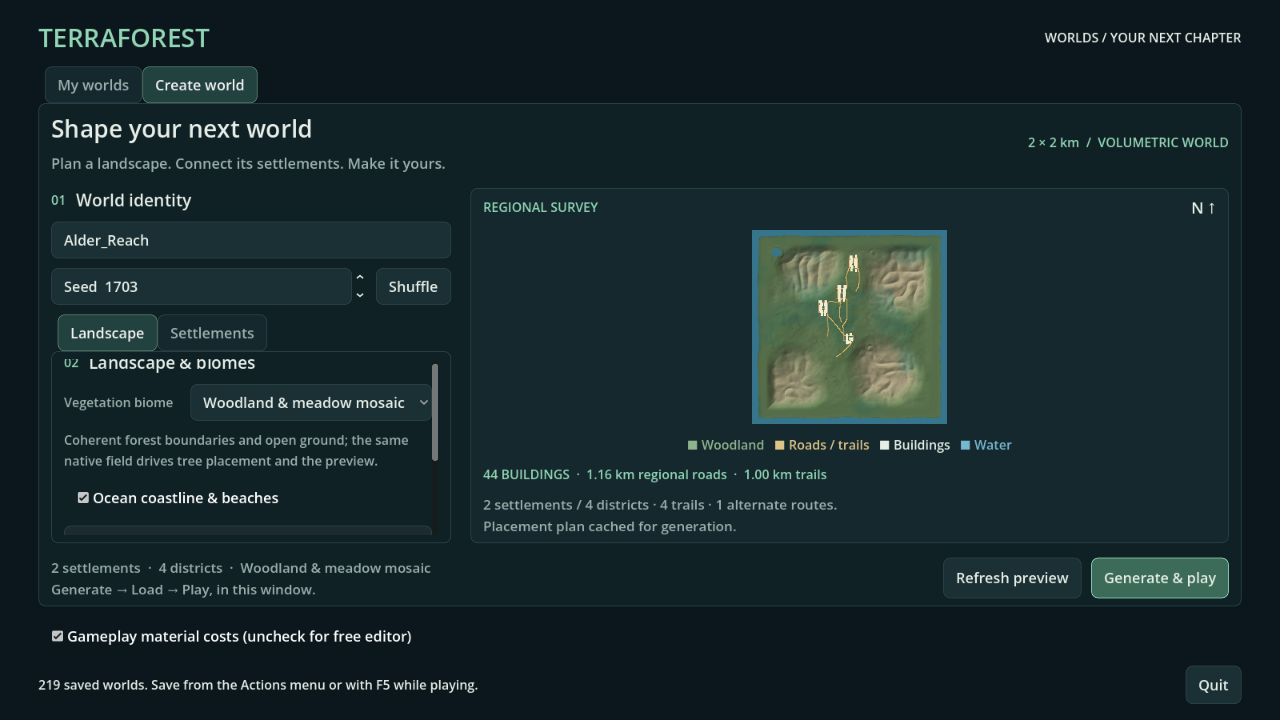
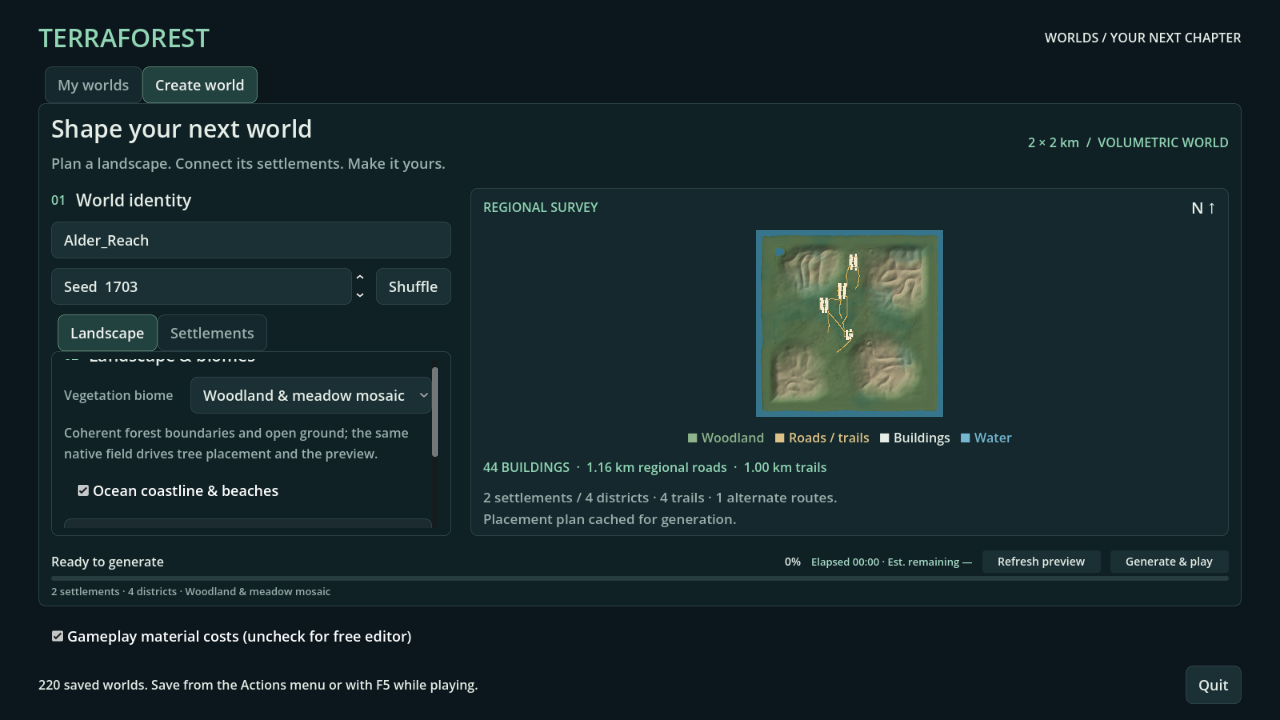
Keep Create world progress visible with stable ready and active layouts

diff --git a/TerraForest/docs/evidence/create_world_tab/README.md b/TerraForest/docs/evidence/create_world_tab/README.md
@@ -29,14 +29,30 @@ Run using `python tools/run_godot_check.py <test> --godot <engine> --timeout <se
 The initial tall card was rejected for wasted vertical space. The compact
 revision replaces the entire card with a transparent footer strip: stage,
 percentage, timing and Cancel share one row above the bar. Work details use one
-optional clipped line with the full text in its tooltip. The repeated heading,
-disabled action footer and duplicate status message are hidden during generation.
+clipped line with the full text in its tooltip. The repeated heading and separate
+action footer are removed; the duplicate status message is hidden during generation.
 The strip is checked to remain at most 64 logical pixels high at both resolutions.
 
 Compact revision checks passed: `world_browser_progress`
 (`20261026T063709843637Z`), actual `world_browser_cancel`
 (`20261026T063721119035Z`), and unchanged regular `loading_progress_ui`
-(`20261026T063819221051Z`). The images below show this revision.
+(`20261026T063819221051Z`).
+
+The strip now stays visible from opening Create world. Its idle state says
+Ready to generate, with zero progress and a stopped clock. Generate & play and
+Cancel share one fixed-width button; Refresh preview stays in the same row. The
+recipe summary and live work details share one reserved line. The strip remains
+60 logical pixels high, with identical strip and map rectangles before generation,
+during work and after cancellation. No additional footer appears or disappears.
+
+Always-visible checks passed: `world_browser_progress`
+(`20261026T065039439823Z`), `world_creation_ui` (`20261026T065050528117Z`),
+and actual Generate/Cancel button handling in `world_browser_cancel`
+(`20261026T065307414125Z`). Initial geometry checks
+`20261026T064915818953Z` and `20261026T065017487672Z` found a 10 px shift caused by
+the disabled checkbox skin. Matching its enabled margins fixed the shift; both
+1920x1080 and 1280x720 now pass exact rectangle comparisons. The images below
+show the persistent strip.
 
 Inspected images: [actual generation](generating_1920x1080.png),
 [controlled progress at 720p](progress_1280x720.png), and
